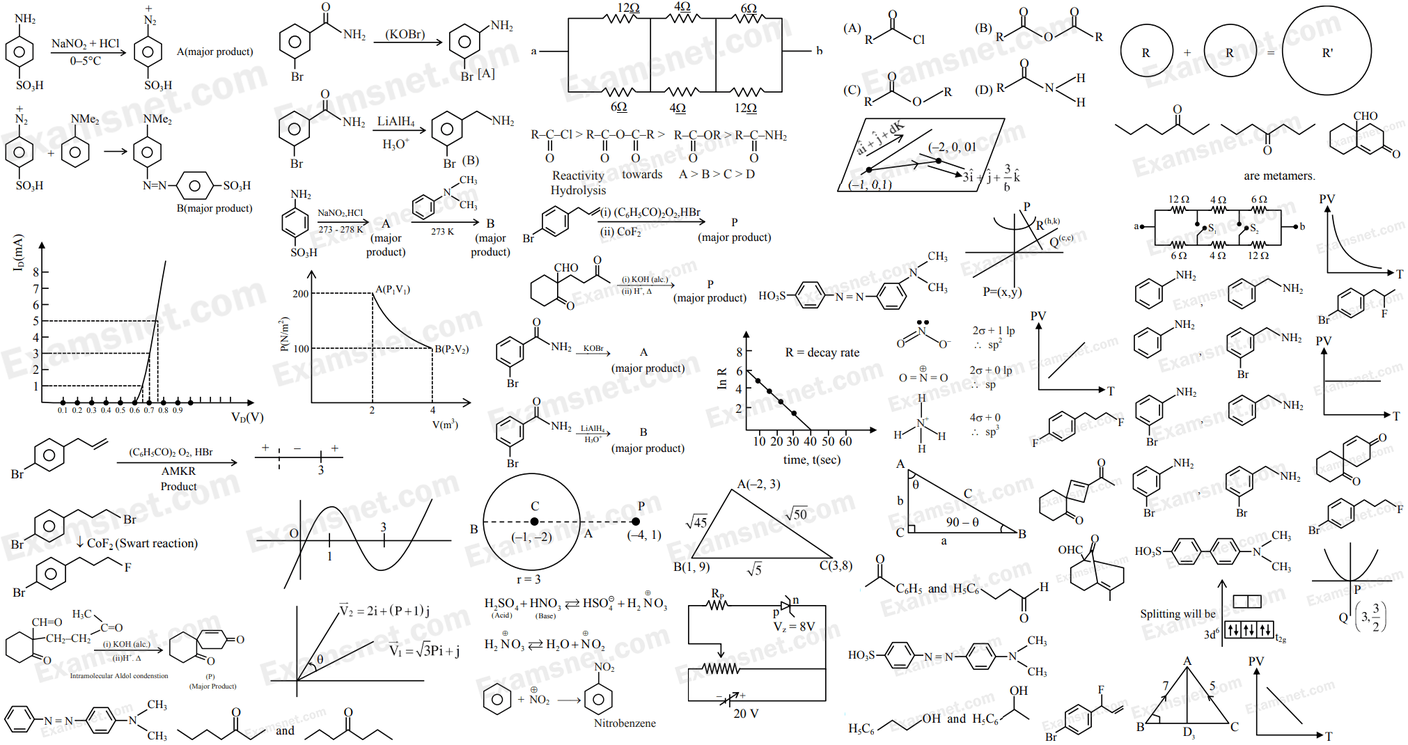
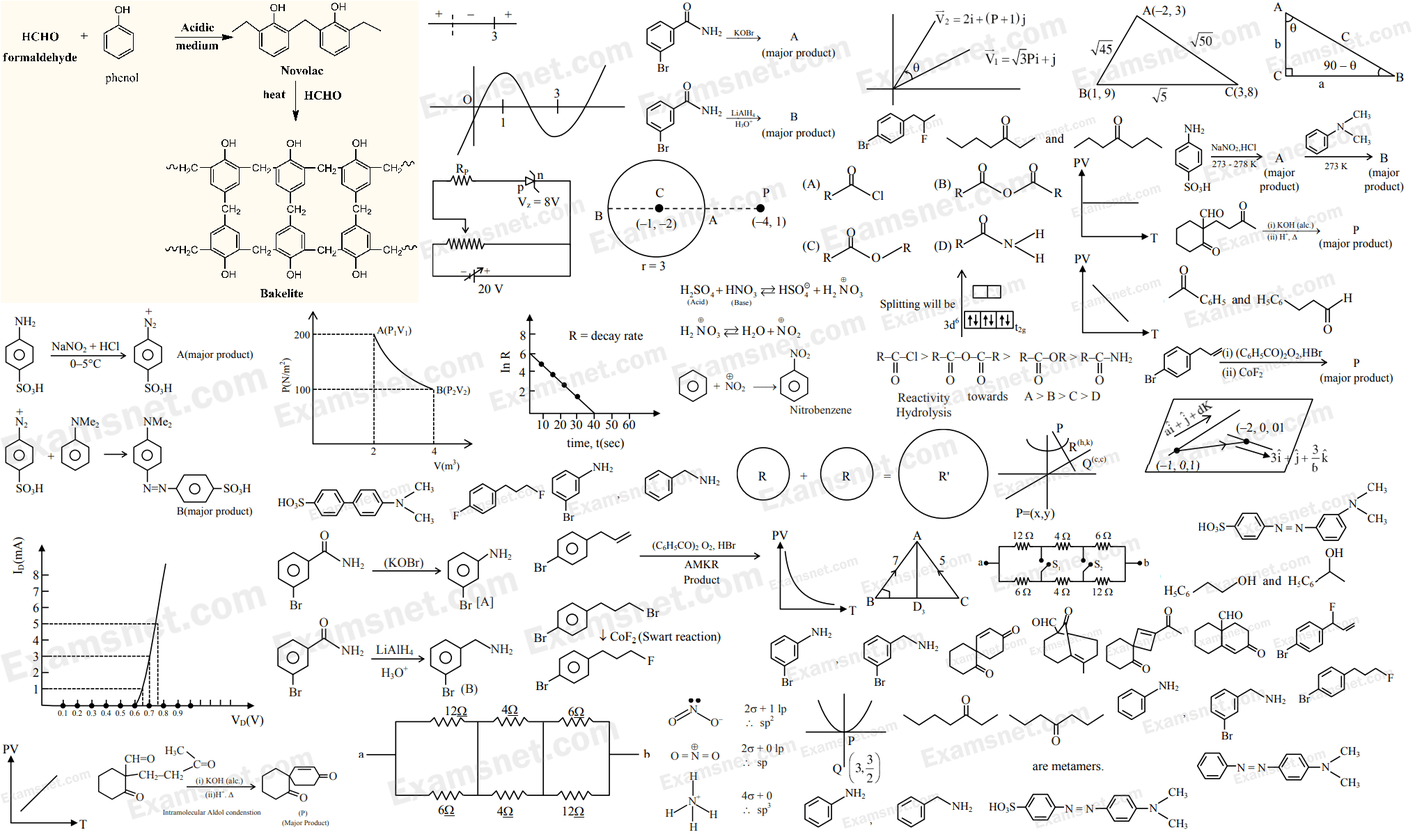
Fixed

diff --git a/img/jee/mains/prev/M2021July20_s2.css b/img/jee/mains/prev/M2021July20_s2.css
@@ -8,163 +8,166 @@ Responsive: <div class="yourspritesname"></div>
 
 
 .JEE_Main_20_July_2021_Eve_14_q {max-width:261px; max-height:226px; }
-.JEE_Main_20_July_2021_Eve_14_q::after {content: '\00a0';display: inline-block; width:261px; height:226px; background-position: 57.524134014764336% 53.791469194312796%;background-size: 774.7126436781609% 473.4513274336283%;background-image: url(M2021July20_s2-0.png);padding: 0; }
+.JEE_Main_20_July_2021_Eve_14_q::after {content: '\00a0';display: inline-block; width:261px; height:226px; background-position: 39.6386222473179% 44.057377049180324%;background-size: 778.5440613026819% 531.858407079646%;background-image: url(M2021July20_s2-0.png);padding: 0; }
 div.JEE_Main_20_July_2021_Eve_14_q::after {max-width:261px; width:100%;height:0;padding: 0 0 86.59003831417624% 0;}
 .JEE_Main_20_July_2021_Eve_19_s {max-width:379px; max-height:146px; }
-.JEE_Main_20_July_2021_Eve_19_s::after {content: '\00a0';display: inline-block; width:379px; height:146px; background-position: 97.20024345709069% 0.10822510822510822%;background-size: 533.509234828496% 732.8767123287671%;background-image: url(M2021July20_s2-0.png);padding: 0; }
+.JEE_Main_20_July_2021_Eve_19_s::after {content: '\00a0';display: inline-block; width:379px; height:146px; background-position: 63.2788868723533% 57.67045454545455%;background-size: 536.1477572559367% 823.2876712328767%;background-image: url(M2021July20_s2-0.png);padding: 0; }
 div.JEE_Main_20_July_2021_Eve_19_s::after {max-width:379px; width:100%;height:0;padding: 0 0 38.522427440633244% 0;}
 .JEE_Main_20_July_2021_Eve_21_q {max-width:243px; max-height:201px; }
-.JEE_Main_20_July_2021_Eve_21_q::after {content: '\00a0';display: inline-block; width:243px; height:201px; background-position: 54.468802698145026% 96.43268124280783%;background-size: 832.0987654320987% 532.3383084577115%;background-image: url(M2021July20_s2-0.png);padding: 0; }
+.JEE_Main_20_July_2021_Eve_21_q::after {content: '\00a0';display: inline-block; width:243px; height:201px; background-position: 33.65008384572387% 22.77722277722278%;background-size: 836.2139917695473% 598.0099502487562%;background-image: url(M2021July20_s2-0.png);padding: 0; }
 div.JEE_Main_20_July_2021_Eve_21_q::after {max-width:243px; width:100%;height:0;padding: 0 0 82.71604938271605% 0;}
 .JEE_Main_20_July_2021_Eve_23_q {max-width:265px; max-height:110px; }
-.JEE_Main_20_July_2021_Eve_23_q::after {content: '\00a0';display: inline-block; width:265px; height:110px; background-position: 92.43027888446215% 28.4375%;background-size: 763.0188679245283% 972.7272727272727%;background-image: url(M2021July20_s2-0.png);padding: 0; }
+.JEE_Main_20_July_2021_Eve_23_q::after {content: '\00a0';display: inline-block; width:265px; height:110px; background-position: 79.2303338992643% 69.23076923076923%;background-size: 766.7924528301887% 1092.7272727272727%;background-image: url(M2021July20_s2-0.png);padding: 0; }
 div.JEE_Main_20_July_2021_Eve_23_q::after {max-width:265px; width:100%;height:0;padding: 0 0 41.509433962264154% 0;}
 .JEE_Main_20_July_2021_Eve_23_s {max-width:440px; max-height:170px; }
-.JEE_Main_20_July_2021_Eve_23_s::after {content: '\00a0';display: inline-block; width:440px; height:170px; background-position: 47.661188369152974% 0.1111111111111111%;background-size: 459.54545454545456% 629.4117647058823%;background-image: url(M2021July20_s2-0.png);padding: 0; }
+.JEE_Main_20_July_2021_Eve_23_s::after {content: '\00a0';display: inline-block; width:440px; height:170px; background-position: 31.78391959798995% 97.96511627906976%;background-size: 461.8181818181818% 707.0588235294117%;background-image: url(M2021July20_s2-0.png);padding: 0; }
 div.JEE_Main_20_July_2021_Eve_23_s::after {max-width:440px; width:100%;height:0;padding: 0 0 38.63636363636363% 0;}
 .JEE_Main_20_July_2021_Eve_25_q {max-width:389px; max-height:298px; }
-.JEE_Main_20_July_2021_Eve_25_q::after {content: '\00a0';display: inline-block; width:389px; height:298px; background-position: 0.0612369871402327% 42.09844559585492%;background-size: 519.7943444730078% 359.06040268456377%;background-image: url(M2021July20_s2-0.png);padding: 0; }
+.JEE_Main_20_July_2021_Eve_25_q::after {content: '\00a0';display: inline-block; width:389px; height:298px; background-position: 0.06086427267194157% 84.070796460177%;background-size: 522.3650385604113% 403.3557046979866%;background-image: url(M2021July20_s2-0.png);padding: 0; }
 div.JEE_Main_20_July_2021_Eve_25_q::after {max-width:389px; width:100%;height:0;padding: 0 0 76.60668380462725% 0;}
 .JEE_Main_20_July_2021_Eve_27_q {max-width:308px; max-height:246px; }
-.JEE_Main_20_July_2021_Eve_27_q::after {content: '\00a0';display: inline-block; width:308px; height:246px; background-position: 22.81213535589265% 45.75242718446602%;background-size: 656.4935064935065% 434.9593495934959%;background-image: url(M2021July20_s2-0.png);padding: 0; }
+.JEE_Main_20_July_2021_Eve_27_q::after {content: '\00a0';display: inline-block; width:308px; height:246px; background-position: 22.79582366589327% 45.60669456066945%;background-size: 659.7402597402597% 488.6178861788618%;background-image: url(M2021July20_s2-0.png);padding: 0; }
 div.JEE_Main_20_July_2021_Eve_27_q::after {max-width:308px; width:100%;height:0;padding: 0 0 79.87012987012987% 0;}
 .JEE_Main_20_July_2021_Eve_31_o_2 {max-width:280px; max-height:111px; }
-.JEE_Main_20_July_2021_Eve_31_o_2::after {content: '\00a0';display: inline-block; width:280px; height:111px; background-position: 70.8955223880597% 82.48175182481752%;background-size: 722.1428571428571% 963.9639639639639%;background-image: url(M2021July20_s2-0.png);padding: 0; }
+.JEE_Main_20_July_2021_Eve_31_o_2::after {content: '\00a0';display: inline-block; width:280px; height:111px; background-position: 95.37671232876713% 34.46379468377635%;background-size: 725.7142857142857% 1082.882882882883%;background-image: url(M2021July20_s2-0.png);padding: 0; }
 div.JEE_Main_20_July_2021_Eve_31_o_2::after {max-width:280px; width:100%;height:0;padding: 0 0 39.642857142857146% 0;}
 .JEE_Main_20_July_2021_Eve_31_o_3 {max-width:282px; max-height:78px; }
-.JEE_Main_20_July_2021_Eve_31_o_3::after {content: '\00a0';display: inline-block; width:282px; height:78px; background-position: 69.71264367816092% 99.19354838709677%;background-size: 717.0212765957447% 1371.7948717948718%;background-image: url(M2021July20_s2-0.png);padding: 0; }
+.JEE_Main_20_July_2021_Eve_31_o_3::after {content: '\00a0';display: inline-block; width:282px; height:78px; background-position: 95.2% 69.9288256227758%;background-size: 720.5673758865248% 1541.025641025641%;background-image: url(M2021July20_s2-0.png);padding: 0; }
 div.JEE_Main_20_July_2021_Eve_31_o_3::after {max-width:282px; width:100%;height:0;padding: 0 0 27.659574468085108% 0;}
 .JEE_Main_20_July_2021_Eve_31_o_4 {max-width:317px; max-height:60px; }
-.JEE_Main_20_July_2021_Eve_31_o_4::after {content: '\00a0';display: inline-block; width:317px; height:60px; background-position: 14.838709677419354% 99.9009900990099%;background-size: 637.8548895899054% 1783.3333333333333%;background-image: url(M2021July20_s2-0.png);padding: 0; }
+.JEE_Main_20_July_2021_Eve_31_o_4::after {content: '\00a0';display: inline-block; width:317px; height:60px; background-position: 79.18367346938776% 13.92294220665499%;background-size: 641.0094637223975% 2003.3333333333333%;background-image: url(M2021July20_s2-0.png);padding: 0; }
 div.JEE_Main_20_July_2021_Eve_31_o_4::after {max-width:317px; width:100%;height:0;padding: 0 0 18.92744479495268% 0;}
 .JEE_Main_20_July_2021_Eve_31_s {max-width:307px; max-height:124px; }
-.JEE_Main_20_July_2021_Eve_31_s::after {content: '\00a0';display: inline-block; width:307px; height:124px; background-position: 93.11953352769679% 15.644820295983086%;background-size: 658.6319218241042% 862.9032258064516%;background-image: url(M2021July20_s2-0.png);padding: 0; }
+.JEE_Main_20_July_2021_Eve_31_s::after {content: '\00a0';display: inline-block; width:307px; height:124px; background-position: 74.95652173913044% 92.39332096474953%;background-size: 661.8892508143323% 969.3548387096774%;background-image: url(M2021July20_s2-0.png);padding: 0; }
 div.JEE_Main_20_July_2021_Eve_31_s::after {max-width:307px; width:100%;height:0;padding: 0 0 40.39087947882736% 0;}
 .JEE_Main_20_July_2021_Eve_32_o_1 {max-width:261px; max-height:91px; }
-.JEE_Main_20_July_2021_Eve_32_o_1::after {content: '\00a0';display: inline-block; width:261px; height:91px; background-position: 92.22032935831913% 46.6802860061287%;background-size: 774.7126436781609% 1175.8241758241759%;background-image: url(M2021July20_s2-0.png);padding: 0; }
+.JEE_Main_20_July_2021_Eve_32_o_1::after {content: '\00a0';display: inline-block; width:261px; height:91px; background-position: 90.40090344438171% 87.84878487848785%;background-size: 778.5440613026819% 1320.8791208791208%;background-image: url(M2021July20_s2-0.png);padding: 0; }
 div.JEE_Main_20_July_2021_Eve_32_o_1::after {max-width:261px; width:100%;height:0;padding: 0 0 34.86590038314176% 0;}
 .JEE_Main_20_July_2021_Eve_32_o_2 {max-width:259px; max-height:100px; }
-.JEE_Main_20_July_2021_Eve_32_o_2::after {content: '\00a0';display: inline-block; width:259px; height:100px; background-position: 92.11571185479296% 56.597938144329895%;background-size: 780.6949806949807% 1070%;background-image: url(M2021July20_s2-0.png);padding: 0; }
+.JEE_Main_20_July_2021_Eve_32_o_2::after {content: '\00a0';display: inline-block; width:259px; height:100px; background-position: 44.33164128595601% 59.618874773139744%;background-size: 784.5559845559845% 1202%;background-image: url(M2021July20_s2-0.png);padding: 0; }
 div.JEE_Main_20_July_2021_Eve_32_o_2::after {max-width:259px; width:100%;height:0;padding: 0 0 38.61003861003861% 0;}
 .JEE_Main_20_July_2021_Eve_32_o_3 {max-width:265px; max-height:72px; }
-.JEE_Main_20_July_2021_Eve_32_o_3::after {content: '\00a0';display: inline-block; width:265px; height:72px; background-position: 92.43027888446215% 38.476953907815634%;background-size: 763.0188679245283% 1486.111111111111%;background-image: url(M2021July20_s2-0.png);padding: 0; }
+.JEE_Main_20_July_2021_Eve_32_o_3::after {content: '\00a0';display: inline-block; width:265px; height:72px; background-position: 65.02546689303905% 99.82300884955752%;background-size: 766.7924528301887% 1669.4444444444443%;background-image: url(M2021July20_s2-0.png);padding: 0; }
 div.JEE_Main_20_July_2021_Eve_32_o_3::after {max-width:265px; width:100%;height:0;padding: 0 0 27.169811320754718% 0;}
 .JEE_Main_20_July_2021_Eve_32_o_4 {max-width:252px; max-height:102px; }
-.JEE_Main_20_July_2021_Eve_32_o_4::after {content: '\00a0';display: inline-block; width:252px; height:102px; background-position: 91.75141242937853% 67.14876033057851%;background-size: 802.3809523809524% 1049.0196078431372%;background-image: url(M2021July20_s2-0.png);padding: 0; }
+.JEE_Main_20_July_2021_Eve_32_o_4::after {content: '\00a0';display: inline-block; width:252px; height:102px; background-position: 62.02247191011236% 81.18181818181819%;background-size: 806.3492063492064% 1178.4313725490197%;background-image: url(M2021July20_s2-0.png);padding: 0; }
 div.JEE_Main_20_July_2021_Eve_32_o_4::after {max-width:252px; width:100%;height:0;padding: 0 0 40.476190476190474% 0;}
 .JEE_Main_20_July_2021_Eve_32_q {max-width:312px; max-height:223px; }
-.JEE_Main_20_July_2021_Eve_32_q::after {content: '\00a0';display: inline-block; width:312px; height:223px; background-position: 40.93567251461988% 53.60094451003542%;background-size: 648.0769230769231% 479.8206278026906%;background-image: url(M2021July20_s2-0.png);padding: 0; }
+.JEE_Main_20_July_2021_Eve_32_q::after {content: '\00a0';display: inline-block; width:312px; height:223px; background-position: 53.25581395348837% 0.10214504596527069%;background-size: 651.2820512820513% 539.0134529147982%;background-image: url(M2021July20_s2-0.png);padding: 0; }
 div.JEE_Main_20_July_2021_Eve_32_q::after {max-width:312px; width:100%;height:0;padding: 0 0 71.47435897435898% 0;}
 .JEE_Main_20_July_2021_Eve_32_s {max-width:360px; max-height:250px; }
-.JEE_Main_20_July_2021_Eve_32_s::after {content: '\00a0';display: inline-block; width:360px; height:250px; background-position: 23.646209386281587% 0.12195121951219512%;background-size: 561.6666666666666% 428%;background-image: url(M2021July20_s2-0.png);padding: 0; }
+.JEE_Main_20_July_2021_Eve_32_s::after {content: '\00a0';display: inline-block; width:360px; height:250px; background-position: 23.385167464114833% 79.83193277310924%;background-size: 564.4444444444445% 480.8%;background-image: url(M2021July20_s2-0.png);padding: 0; }
 div.JEE_Main_20_July_2021_Eve_32_s::after {max-width:360px; width:100%;height:0;padding: 0 0 69.44444444444444% 0;}
 .JEE_Main_20_July_2021_Eve_33_o_1 {max-width:107px; max-height:110px; }
-.JEE_Main_20_July_2021_Eve_33_o_1::after {content: '\00a0';display: inline-block; width:107px; height:110px; background-position: 79.1644908616188% 79.47916666666667%;background-size: 1889.7196261682243% 972.7272727272727%;background-image: url(M2021July20_s2-0.png);padding: 0; }
+.JEE_Main_20_July_2021_Eve_33_o_1::after {content: '\00a0';display: inline-block; width:107px; height:110px; background-position: 76.77922077922078% 79.3956043956044%;background-size: 1899.0654205607477% 1092.7272727272727%;background-image: url(M2021July20_s2-0.png);padding: 0; }
 div.JEE_Main_20_July_2021_Eve_33_o_1::after {max-width:107px; width:100%;height:0;padding: 0 0 102.80373831775701% 0;}
 .JEE_Main_20_July_2021_Eve_33_o_2 {max-width:120px; max-height:94px; }
-.JEE_Main_20_July_2021_Eve_33_o_2::after {content: '\00a0';display: inline-block; width:120px; height:94px; background-position: 99.05362776025237% 62.90983606557377%;background-size: 1685% 1138.2978723404256%;background-image: url(M2021July20_s2-0.png);padding: 0; }
+.JEE_Main_20_July_2021_Eve_33_o_2::after {content: '\00a0';display: inline-block; width:120px; height:94px; background-position: 70.97280334728033% 80.32490974729242%;background-size: 1693.3333333333333% 1278.723404255319%;background-image: url(M2021July20_s2-0.png);padding: 0; }
 div.JEE_Main_20_July_2021_Eve_33_o_2::after {max-width:120px; width:100%;height:0;padding: 0 0 78.33333333333333% 0;}
 .JEE_Main_20_July_2021_Eve_33_o_3 {max-width:116px; max-height:89px; }
-.JEE_Main_20_July_2021_Eve_33_o_3::after {content: '\00a0';display: inline-block; width:116px; height:89px; background-position: 99.94753410283316% 15.08664627930683%;background-size: 1743.103448275862% 1202.247191011236%;background-image: url(M2021July20_s2-0.png);padding: 0; }
+.JEE_Main_20_July_2021_Eve_33_o_3::after {content: '\00a0';display: inline-block; width:116px; height:89px; background-position: 89.30062630480167% 77.71787960467206%;background-size: 1751.7241379310344% 1350.561797752809%;background-image: url(M2021July20_s2-0.png);padding: 0; }
 div.JEE_Main_20_July_2021_Eve_33_o_3::after {max-width:116px; width:100%;height:0;padding: 0 0 76.72413793103448% 0;}
 .JEE_Main_20_July_2021_Eve_33_o_4 {max-width:124px; max-height:108px; }
-.JEE_Main_20_July_2021_Eve_33_o_4::after {content: '\00a0';display: inline-block; width:124px; height:108px; background-position: 78.50368809272919% 67.98336798336798%;background-size: 1630.6451612903227% 990.7407407407408%;background-image: url(M2021July20_s2-0.png);padding: 0; }
+.JEE_Main_20_July_2021_Eve_33_o_4::after {content: '\00a0';display: inline-block; width:124px; height:108px; background-position: 83.12368972746332% 79.25045703839122%;background-size: 1638.7096774193549% 1112.962962962963%;background-image: url(M2021July20_s2-0.png);padding: 0; }
 div.JEE_Main_20_July_2021_Eve_33_o_4::after {max-width:124px; width:100%;height:0;padding: 0 0 87.09677419354838% 0;}
 .JEE_Main_20_July_2021_Eve_33_q {max-width:338px; max-height:92px; }
-.JEE_Main_20_July_2021_Eve_33_q::after {content: '\00a0';display: inline-block; width:338px; height:92px; background-position: 44.180522565320665% 36.9120654396728%;background-size: 598.2248520710059% 1163.0434782608695%;background-image: url(M2021July20_s2-0.png);padding: 0; }
+.JEE_Main_20_July_2021_Eve_33_q::after {content: '\00a0';display: inline-block; width:338px; height:92px; background-position: 98.64226682408501% 25.495495495495497%;background-size: 601.1834319526628% 1306.5217391304348%;background-image: url(M2021July20_s2-0.png);padding: 0; }
 div.JEE_Main_20_July_2021_Eve_33_q::after {max-width:338px; width:100%;height:0;padding: 0 0 27.218934911242602% 0;}
 .JEE_Main_20_July_2021_Eve_33_s {max-width:371px; max-height:137px; }
-.JEE_Main_20_July_2021_Eve_33_s::after {content: '\00a0';display: inline-block; width:371px; height:137px; background-position: 0.06056935190793458% 92.49732047159699%;background-size: 545.0134770889488% 781.021897810219%;background-image: url(M2021July20_s2-0.png);padding: 0; }
+.JEE_Main_20_July_2021_Eve_33_s::after {content: '\00a0';display: inline-block; width:371px; height:137px; background-position: 8.067429259482239% 99.43661971830986%;background-size: 547.7088948787062% 877.3722627737226%;background-image: url(M2021July20_s2-0.png);padding: 0; }
 div.JEE_Main_20_July_2021_Eve_33_s::after {max-width:371px; width:100%;height:0;padding: 0 0 36.92722371967655% 0;}
 .JEE_Main_20_July_2021_Eve_39_s {max-width:242px; max-height:106px; }
-.JEE_Main_20_July_2021_Eve_39_s::after {content: '\00a0';display: inline-block; width:242px; height:106px; background-position: 91.23595505617978% 85.99585062240664%;background-size: 835.5371900826447% 1009.433962264151%;background-image: url(M2021July20_s2-0.png);padding: 0; }
+.JEE_Main_20_July_2021_Eve_39_s::after {content: '\00a0';display: inline-block; width:242px; height:106px; background-position: 69.83240223463687% 35.03649635036496%;background-size: 839.6694214876034% 1133.9622641509434%;background-image: url(M2021July20_s2-0.png);padding: 0; }
 div.JEE_Main_20_July_2021_Eve_39_s::after {max-width:242px; width:100%;height:0;padding: 0 0 43.80165289256198% 0;}
 .JEE_Main_20_July_2021_Eve_42_s {max-width:201px; max-height:202px; }
-.JEE_Main_20_July_2021_Eve_42_s::after {content: '\00a0';display: inline-block; width:201px; height:202px; background-position: 70.0164744645799% 52.30414746543779%;background-size: 1005.9701492537314% 529.7029702970297%;background-image: url(M2021July20_s2-0.png);padding: 0; }
+.JEE_Main_20_July_2021_Eve_42_s::after {content: '\00a0';display: inline-block; width:201px; height:202px; background-position: 51.7203713817586% 99.7%;background-size: 1010.9452736318408% 595.049504950495%;background-image: url(M2021July20_s2-0.png);padding: 0; }
 div.JEE_Main_20_July_2021_Eve_42_s::after {max-width:201px; width:100%;height:0;padding: 0 0 100.49751243781094% 0;}
+.JEE_Main_20_July_2021_Eve_43_s {max-width:600px; max-height:434px; }
+.JEE_Main_20_July_2021_Eve_43_s::after {content: '\00a0';display: inline-block; width:600px; height:434px; background-position: 0.06983240223463687% 0.13020833333333334%;background-size: 338.6666666666667% 276.9585253456221%;background-image: url(M2021July20_s2-0.png);padding: 0; }
+div.JEE_Main_20_July_2021_Eve_43_s::after {max-width:600px; width:100%;height:0;padding: 0 0 72.33333333333333% 0;}
 .JEE_Main_20_July_2021_Eve_44_s {max-width:285px; max-height:210px; }
-.JEE_Main_20_July_2021_Eve_44_s::after {content: '\00a0';display: inline-block; width:285px; height:210px; background-position: 39.32066781807715% 98.6046511627907%;background-size: 709.4736842105264% 509.5238095238095%;background-image: url(M2021July20_s2-0.png);padding: 0; }
+.JEE_Main_20_July_2021_Eve_44_s::after {content: '\00a0';display: inline-block; width:285px; height:210px; background-position: 55.180309101316546% 40.12096774193548%;background-size: 712.9824561403509% 572.3809523809524%;background-image: url(M2021July20_s2-0.png);padding: 0; }
 div.JEE_Main_20_July_2021_Eve_44_s::after {max-width:285px; width:100%;height:0;padding: 0 0 73.6842105263158% 0;}
 .JEE_Main_20_July_2021_Eve_45_o_1 {max-width:295px; max-height:92px; }
-.JEE_Main_20_July_2021_Eve_45_o_1::after {content: '\00a0';display: inline-block; width:295px; height:92px; background-position: 62.70990156340475% 36.9120654396728%;background-size: 685.4237288135594% 1163.0434782608695%;background-image: url(M2021July20_s2-0.png);padding: 0; }
+.JEE_Main_20_July_2021_Eve_45_o_1::after {content: '\00a0';display: inline-block; width:295px; height:92px; background-position: 98.67587795048935% 62.432432432432435%;background-size: 688.8135593220339% 1306.5217391304348%;background-image: url(M2021July20_s2-0.png);padding: 0; }
 div.JEE_Main_20_July_2021_Eve_45_o_1::after {max-width:295px; width:100%;height:0;padding: 0 0 31.1864406779661% 0;}
 .JEE_Main_20_July_2021_Eve_45_o_2 {max-width:251px; max-height:68px; }
-.JEE_Main_20_July_2021_Eve_45_o_2::after {content: '\00a0';display: inline-block; width:251px; height:68px; background-position: 0.05646527385657821% 99.9001996007984%;background-size: 805.5776892430279% 1573.5294117647059%;background-image: url(M2021July20_s2-0.png);padding: 0; }
+.JEE_Main_20_July_2021_Eve_45_o_2::after {content: '\00a0';display: inline-block; width:251px; height:68px; background-position: 96.23806850084222% 94.17989417989418%;background-size: 809.5617529880478% 1767.6470588235295%;background-image: url(M2021July20_s2-0.png);padding: 0; }
 div.JEE_Main_20_July_2021_Eve_45_o_2::after {max-width:251px; width:100%;height:0;padding: 0 0 27.09163346613546% 0;}
 .JEE_Main_20_July_2021_Eve_45_o_3 {max-width:298px; max-height:80px; }
-.JEE_Main_20_July_2021_Eve_45_o_3::after {content: '\00a0';display: inline-block; width:298px; height:80px; background-position: 70.35962877030163% 91.21212121212122%;background-size: 678.5234899328859% 1337.5%;background-image: url(M2021July20_s2-0.png);padding: 0; }
+.JEE_Main_20_July_2021_Eve_45_o_3::after {content: '\00a0';display: inline-block; width:298px; height:80px; background-position: 81.60322952710496% 99.9108734402852%;background-size: 681.8791946308725% 1502.5%;background-image: url(M2021July20_s2-0.png);padding: 0; }
 div.JEE_Main_20_July_2021_Eve_45_o_3::after {max-width:298px; width:100%;height:0;padding: 0 0 26.845637583892618% 0;}
 .JEE_Main_20_July_2021_Eve_45_o_4 {max-width:251px; max-height:75px; }
-.JEE_Main_20_July_2021_Eve_45_o_4::after {content: '\00a0';display: inline-block; width:251px; height:75px; background-position: 91.699604743083% 75.678391959799%;background-size: 805.5776892430279% 1426.6666666666667%;background-image: url(M2021July20_s2-0.png);padding: 0; }
+.JEE_Main_20_July_2021_Eve_45_o_4::after {content: '\00a0';display: inline-block; width:251px; height:75px; background-position: 22.06625491297024% 60.60337178349601%;background-size: 809.5617529880478% 1602.6666666666667%;background-image: url(M2021July20_s2-0.png);padding: 0; }
 div.JEE_Main_20_July_2021_Eve_45_o_4::after {max-width:251px; width:100%;height:0;padding: 0 0 29.8804780876494% 0;}
 .JEE_Main_20_July_2021_Eve_45_q {max-width:350px; max-height:124px; }
-.JEE_Main_20_July_2021_Eve_45_q::after {content: '\00a0';display: inline-block; width:350px; height:124px; background-position: 23.504784688995215% 26.6384778012685%;background-size: 577.7142857142857% 862.9032258064516%;background-image: url(M2021July20_s2-0.png);padding: 0; }
+.JEE_Main_20_July_2021_Eve_45_q::after {content: '\00a0';display: inline-block; width:350px; height:124px; background-position: 99.64328180737218% 14.656771799628942%;background-size: 580.5714285714286% 969.3548387096774%;background-image: url(M2021July20_s2-0.png);padding: 0; }
 div.JEE_Main_20_July_2021_Eve_45_q::after {max-width:350px; width:100%;height:0;padding: 0 0 35.42857142857143% 0;}
 .JEE_Main_20_July_2021_Eve_45_s {max-width:391px; max-height:323px; }
-.JEE_Main_20_July_2021_Eve_45_s::after {content: '\00a0';display: inline-block; width:391px; height:323px; background-position: 0.061312078479460456% 0.13386880856760375%;background-size: 517.1355498721227% 331.26934984520125%;background-image: url(M2021July20_s2-0.png);padding: 0; }
+.JEE_Main_20_July_2021_Eve_45_s::after {content: '\00a0';display: inline-block; width:391px; height:323px; background-position: 0.06093845216331505% 49.60182025028441%;background-size: 519.693094629156% 372.1362229102167%;background-image: url(M2021July20_s2-0.png);padding: 0; }
 div.JEE_Main_20_July_2021_Eve_45_s::after {max-width:391px; width:100%;height:0;padding: 0 0 82.6086956521739% 0;}
 .JEE_Main_20_July_2021_Eve_46_o_1 {max-width:127px; max-height:85px; }
-.JEE_Main_20_July_2021_Eve_46_o_1::after {content: '\00a0';display: inline-block; width:127px; height:85px; background-position: 78.94459102902374% 99.8984771573604%;background-size: 1592.1259842519685% 1258.8235294117646%;background-image: url(M2021July20_s2-0.png);padding: 0; }
+.JEE_Main_20_July_2021_Eve_46_o_1::after {content: '\00a0';display: inline-block; width:127px; height:85px; background-position: 95.95800524934383% 77.4395702775291%;background-size: 1600% 1414.1176470588234%;background-image: url(M2021July20_s2-0.png);padding: 0; }
 div.JEE_Main_20_July_2021_Eve_46_o_1::after {max-width:127px; width:100%;height:0;padding: 0 0 66.92913385826772% 0;}
 .JEE_Main_20_July_2021_Eve_46_o_2 {max-width:140px; max-height:74px; }
-.JEE_Main_20_July_2021_Eve_46_o_2::after {content: '\00a0';display: inline-block; width:140px; height:74px; background-position: 78.48034006376196% 58.13253012048193%;background-size: 1444.2857142857142% 1445.945945945946%;background-image: url(M2021July20_s2-0.png);padding: 0; }
+.JEE_Main_20_July_2021_Eve_46_o_2::after {content: '\00a0';display: inline-block; width:140px; height:74px; background-position: 34.09090909090909% 60.54964539007092%;background-size: 1451.4285714285713% 1624.3243243243244%;background-image: url(M2021July20_s2-0.png);padding: 0; }
 div.JEE_Main_20_July_2021_Eve_46_o_2::after {max-width:140px; width:100%;height:0;padding: 0 0 52.857142857142854% 0;}
 .JEE_Main_20_July_2021_Eve_46_o_3 {max-width:128px; max-height:65px; }
-.JEE_Main_20_July_2021_Eve_46_o_3::after {content: '\00a0';display: inline-block; width:128px; height:65px; background-position: 99.78880675818374% 40.79601990049751%;background-size: 1579.6875% 1646.1538461538462%;background-image: url(M2021July20_s2-0.png);padding: 0; }
+.JEE_Main_20_July_2021_Eve_46_o_3::after {content: '\00a0';display: inline-block; width:128px; height:65px; background-position: 64.5483193277311% 13.984168865435356%;background-size: 1587.5% 1849.2307692307693%;background-image: url(M2021July20_s2-0.png);padding: 0; }
 div.JEE_Main_20_July_2021_Eve_46_o_3::after {max-width:128px; width:100%;height:0;padding: 0 0 50.78125% 0;}
 .JEE_Main_20_July_2021_Eve_46_o_4 {max-width:144px; max-height:69px; }
-.JEE_Main_20_July_2021_Eve_46_o_4::after {content: '\00a0';display: inline-block; width:144px; height:69px; background-position: 99.94675186368477% 70.82917082917083%;background-size: 1404.1666666666667% 1550.7246376811595%;background-image: url(M2021July20_s2-0.png);padding: 0; }
+.JEE_Main_20_July_2021_Eve_46_o_4::after {content: '\00a0';display: inline-block; width:144px; height:69px; background-position: 98.67584745762711% 83.93645189761695%;background-size: 1411.111111111111% 1742.0289855072465%;background-image: url(M2021July20_s2-0.png);padding: 0; }
 div.JEE_Main_20_July_2021_Eve_46_o_4::after {max-width:144px; width:100%;height:0;padding: 0 0 47.916666666666664% 0;}
 .JEE_Main_20_July_2021_Eve_46_q {max-width:374px; max-height:71px; }
-.JEE_Main_20_July_2021_Eve_46_q::after {content: '\00a0';display: inline-block; width:374px; height:71px; background-position: 45.14563106796116% 28.92892892892893%;background-size: 540.6417112299465% 1507.0422535211267%;background-image: url(M2021July20_s2-0.png);padding: 0; }
+.JEE_Main_20_July_2021_Eve_46_q::after {content: '\00a0';display: inline-block; width:374px; height:71px; background-position: 98.73341375150784% 43.41290893015031%;background-size: 543.3155080213904% 1692.9577464788733%;background-image: url(M2021July20_s2-0.png);padding: 0; }
 div.JEE_Main_20_July_2021_Eve_46_q::after {max-width:374px; width:100%;height:0;padding: 0 0 18.983957219251337% 0;}
 .JEE_Main_20_July_2021_Eve_46_s {max-width:351px; max-height:238px; }
-.JEE_Main_20_July_2021_Eve_46_s::after {content: '\00a0';display: inline-block; width:351px; height:238px; background-position: 0.059844404548174746% 75%;background-size: 576.0683760683761% 449.5798319327731%;background-image: url(M2021July20_s2-0.png);padding: 0; }
+.JEE_Main_20_July_2021_Eve_46_s::after {content: '\00a0';display: inline-block; width:351px; height:238px; background-position: 44.735276621058894% 78.63070539419087%;background-size: 578.9173789173789% 505.0420168067227%;background-image: url(M2021July20_s2-0.png);padding: 0; }
 div.JEE_Main_20_July_2021_Eve_46_s::after {max-width:351px; width:100%;height:0;padding: 0 0 67.80626780626781% 0;}
 .JEE_Main_20_July_2021_Eve_50_q {max-width:401px; max-height:158px; }
-.JEE_Main_20_July_2021_Eve_50_q::after {content: '\00a0';display: inline-block; width:401px; height:158px; background-position: 73.71992597162246% 0.10964912280701754%;background-size: 504.23940149625935% 677.2151898734177%;background-image: url(M2021July20_s2-0.png);padding: 0; }
+.JEE_Main_20_July_2021_Eve_50_q::after {content: '\00a0';display: inline-block; width:401px; height:158px; background-position: 69.65052115266708% 21.551724137931036%;background-size: 506.73316708229424% 760.7594936708861%;background-image: url(M2021July20_s2-0.png);padding: 0; }
 div.JEE_Main_20_July_2021_Eve_50_q::after {max-width:401px; width:100%;height:0;padding: 0 0 39.401496259351624% 0;}
 .JEE_Main_20_July_2021_Eve_50_s {max-width:386px; max-height:116px; }
-.JEE_Main_20_July_2021_Eve_50_s::after {content: '\00a0';display: inline-block; width:386px; height:116px; background-position: 46.0880195599022% 18.029350104821802%;background-size: 523.8341968911917% 922.4137931034483%;background-image: url(M2021July20_s2-0.png);padding: 0; }
+.JEE_Main_20_July_2021_Eve_50_s::after {content: '\00a0';display: inline-block; width:386px; height:116px; background-position: 75.94167679222357% 45.21178637200737%;background-size: 526.4248704663213% 1036.2068965517242%;background-image: url(M2021July20_s2-0.png);padding: 0; }
 div.JEE_Main_20_July_2021_Eve_50_s::after {max-width:386px; width:100%;height:0;padding: 0 0 30.05181347150259% 0;}
 .JEE_Main_20_July_2021_Eve_63_s {max-width:289px; max-height:169px; }
-.JEE_Main_20_July_2021_Eve_63_s::after {content: '\00a0';display: inline-block; width:289px; height:169px; background-position: 38.48817080207732% 75.24972253052164%;background-size: 699.6539792387543% 633.1360946745563%;background-image: url(M2021July20_s2-0.png);padding: 0; }
+.JEE_Main_20_July_2021_Eve_63_s::after {content: '\00a0';display: inline-block; width:289px; height:169px; background-position: 48.53700516351119% 22.07163601161665%;background-size: 703.1141868512111% 711.2426035502958%;background-image: url(M2021July20_s2-0.png);padding: 0; }
 div.JEE_Main_20_July_2021_Eve_63_s::after {max-width:289px; width:100%;height:0;padding: 0 0 58.477508650519034% 0;}
 .JEE_Main_20_July_2021_Eve_65_s {max-width:308px; max-height:129px; }
-.JEE_Main_20_July_2021_Eve_65_s::after {content: '\00a0';display: inline-block; width:308px; height:129px; background-position: 69.71995332555426% 17.00318809776833%;background-size: 656.4935064935065% 829.4573643410853%;background-image: url(M2021July20_s2-0.png);padding: 0; }
+.JEE_Main_20_July_2021_Eve_65_s::after {content: '\00a0';display: inline-block; width:308px; height:129px; background-position: 94.95359628770302% 52.46971109040074%;background-size: 659.7402597402597% 931.7829457364342%;background-image: url(M2021July20_s2-0.png);padding: 0; }
 div.JEE_Main_20_July_2021_Eve_65_s::after {max-width:308px; width:100%;height:0;padding: 0 0 41.883116883116884% 0;}
 .JEE_Main_20_July_2021_Eve_72_s {max-width:214px; max-height:133px; }
-.JEE_Main_20_July_2021_Eve_72_s::after {content: '\00a0';display: inline-block; width:214px; height:133px; background-position: 70.51991150442478% 70.11739594450374%;background-size: 944.8598130841121% 804.5112781954887%;background-image: url(M2021July20_s2-0.png);padding: 0; }
+.JEE_Main_20_July_2021_Eve_72_s::after {content: '\00a0';display: inline-block; width:214px; height:133px; background-position: 99.94499449944995% 0.09354536950420954%;background-size: 949.5327102803739% 903.7593984962406%;background-image: url(M2021July20_s2-0.png);padding: 0; }
 div.JEE_Main_20_July_2021_Eve_72_s::after {max-width:214px; width:100%;height:0;padding: 0 0 62.149532710280376% 0;}
 .JEE_Main_20_July_2021_Eve_77_s {max-width:186px; max-height:146px; }
-.JEE_Main_20_July_2021_Eve_77_s::after {content: '\00a0';display: inline-block; width:186px; height:146px; background-position: 75.10893246187364% 31.385281385281385%;background-size: 1087.0967741935483% 732.8767123287671%;background-image: url(M2021July20_s2-0.png);padding: 0; }
+.JEE_Main_20_July_2021_Eve_77_s::after {content: '\00a0';display: inline-block; width:186px; height:146px; background-position: 77.24810400866738% 57.57575757575758%;background-size: 1092.47311827957% 823.2876712328767%;background-image: url(M2021July20_s2-0.png);padding: 0; }
 div.JEE_Main_20_July_2021_Eve_77_s::after {max-width:186px; width:100%;height:0;padding: 0 0 78.49462365591398% 0;}
 .JEE_Main_20_July_2021_Eve_80_s {max-width:163px; max-height:133px; }
-.JEE_Main_20_July_2021_Eve_80_s::after {content: '\00a0';display: inline-block; width:163px; height:133px; background-position: 87.35879505110275% 99.89327641408751%;background-size: 1240.4907975460123% 804.5112781954887%;background-image: url(M2021July20_s2-0.png);padding: 0; }
+.JEE_Main_20_July_2021_Eve_80_s::after {content: '\00a0';display: inline-block; width:163px; height:133px; background-position: 66.13162118780096% 70.72029934518241%;background-size: 1246.6257668711658% 903.7593984962406%;background-image: url(M2021July20_s2-0.png);padding: 0; }
 div.JEE_Main_20_July_2021_Eve_80_s::after {max-width:163px; width:100%;height:0;padding: 0 0 81.59509202453988% 0;}
 .JEE_Main_20_July_2021_Eve_84_s {max-width:309px; max-height:157px; }
-.JEE_Main_20_July_2021_Eve_84_s::after {content: '\00a0';display: inline-block; width:309px; height:157px; background-position: 21.77466433158202% 93.2092004381161%;background-size: 654.3689320388349% 681.5286624203821%;background-image: url(M2021July20_s2-0.png);padding: 0; }
+.JEE_Main_20_July_2021_Eve_84_s::after {content: '\00a0';display: inline-block; width:309px; height:157px; background-position: 71.32907719094602% 0.09569377990430622%;background-size: 657.6051779935275% 765.6050955414013%;background-image: url(M2021July20_s2-0.png);padding: 0; }
 div.JEE_Main_20_July_2021_Eve_84_s::after {max-width:309px; width:100%;height:0;padding: 0 0 50.80906148867314% 0;}
 .JEE_Main_20_July_2021_Eve_85_s {max-width:277px; max-height:156px; }
-.JEE_Main_20_July_2021_Eve_85_s::after {content: '\00a0';display: inline-block; width:277px; height:156px; background-position: 54.84240687679083% 74.50765864332604%;background-size: 729.9638989169675% 685.8974358974359%;background-image: url(M2021July20_s2-0.png);padding: 0; }
+.JEE_Main_20_July_2021_Eve_85_s::after {content: '\00a0';display: inline-block; width:277px; height:156px; background-position: 87.6923076923077% 0.09560229445506692%;background-size: 733.5740072202166% 770.5128205128206%;background-image: url(M2021July20_s2-0.png);padding: 0; }
 div.JEE_Main_20_July_2021_Eve_85_s::after {max-width:277px; width:100%;height:0;padding: 0 0 56.31768953068592% 0;}
 .JEE_Main_20_July_2021_Eve_86_s {max-width:143px; max-height:131px; }
-.JEE_Main_20_July_2021_Eve_86_s::after {content: '\00a0';display: inline-block; width:143px; height:131px; background-position: 99.8403406067057% 82.96059637912673%;background-size: 1413.986013986014% 816.7938931297709%;background-image: url(M2021July20_s2-0.png);padding: 0; }
+.JEE_Main_20_July_2021_Eve_86_s::after {content: '\00a0';display: inline-block; width:143px; height:131px; background-position: 60.825833774483854% 92.99719887955182%;background-size: 1420.979020979021% 917.5572519083969%;background-image: url(M2021July20_s2-0.png);padding: 0; }
 div.JEE_Main_20_July_2021_Eve_86_s::after {max-width:143px; width:100%;height:0;padding: 0 0 91.60839160839161% 0;}
 .JEE_Main_20_July_2021_Eve_87_s {max-width:313px; max-height:226px; }
-.JEE_Main_20_July_2021_Eve_87_s::after {content: '\00a0';display: inline-block; width:313px; height:226px; background-position: 20.655354008191924% 73.93364928909952%;background-size: 646.0063897763579% 473.4513274336283%;background-image: url(M2021July20_s2-0.png);padding: 0; }
+.JEE_Main_20_July_2021_Eve_87_s::after {content: '\00a0';display: inline-block; width:313px; height:226px; background-position: 35.02036067481094% 0.10245901639344263%;background-size: 649.2012779552716% 531.858407079646%;background-image: url(M2021July20_s2-0.png);padding: 0; }
 div.JEE_Main_20_July_2021_Eve_87_s::after {max-width:313px; width:100%;height:0;padding: 0 0 72.20447284345047% 0;}
 .JEE_Main_20_July_2021_Eve_8_o_1 {max-width:132px; max-height:132px; }
-.JEE_Main_20_July_2021_Eve_8_o_1::after {content: '\00a0';display: inline-block; width:132px; height:132px; background-position: 94.60317460317461% 99.7867803837953%;background-size: 1531.8181818181818% 810.6060606060606%;background-image: url(M2021July20_s2-0.png);padding: 0; }
+.JEE_Main_20_July_2021_Eve_8_o_1::after {content: '\00a0';display: inline-block; width:132px; height:132px; background-position: 80.94736842105263% 33.45794392523364%;background-size: 1539.3939393939395% 910.6060606060606%;background-image: url(M2021July20_s2-0.png);padding: 0; }
 div.JEE_Main_20_July_2021_Eve_8_o_1::after {max-width:132px; width:100%;height:0;padding: 0 0 100% 0;}
 .JEE_Main_20_July_2021_Eve_8_o_2 {max-width:132px; max-height:137px; }
-.JEE_Main_20_July_2021_Eve_8_o_2::after {content: '\00a0';display: inline-block; width:132px; height:137px; background-position: 99.78835978835978% 51.01822079314041%;background-size: 1531.8181818181818% 781.021897810219%;background-image: url(M2021July20_s2-0.png);padding: 0; }
+.JEE_Main_20_July_2021_Eve_8_o_2::after {content: '\00a0';display: inline-block; width:132px; height:137px; background-position: 80.94736842105263% 20.657276995305164%;background-size: 1539.3939393939395% 877.3722627737226%;background-image: url(M2021July20_s2-0.png);padding: 0; }
 div.JEE_Main_20_July_2021_Eve_8_o_2::after {max-width:132px; width:100%;height:0;padding: 0 0 103.78787878787878% 0;}
 .JEE_Main_20_July_2021_Eve_8_o_3 {max-width:132px; max-height:141px; }
-.JEE_Main_20_July_2021_Eve_8_o_3::after {content: '\00a0';display: inline-block; width:132px; height:141px; background-position: 78.14814814814815% 47.03982777179763%;background-size: 1531.8181818181818% 758.8652482269504%;background-image: url(M2021July20_s2-0.png);padding: 0; }
+.JEE_Main_20_July_2021_Eve_8_o_3::after {content: '\00a0';display: inline-block; width:132px; height:141px; background-position: 0.05263157894736842% 99.8114985862394%;background-size: 1539.3939393939395% 852.4822695035461%;background-image: url(M2021July20_s2-0.png);padding: 0; }
 div.JEE_Main_20_July_2021_Eve_8_o_3::after {max-width:132px; width:100%;height:0;padding: 0 0 106.81818181818181% 0;}
 .JEE_Main_20_July_2021_Eve_8_o_4 {max-width:131px; max-height:136px; }
-.JEE_Main_20_July_2021_Eve_8_o_4::after {content: '\00a0';display: inline-block; width:131px; height:136px; background-position: 99.94711792702275% 29.22912205567452%;background-size: 1543.5114503816794% 786.7647058823529%;background-image: url(M2021July20_s2-0.png);padding: 0; }
+.JEE_Main_20_July_2021_Eve_8_o_4::after {content: '\00a0';display: inline-block; width:131px; height:136px; background-position: 58.07469752761704% 70.91932457786116%;background-size: 1551.145038167939% 883.8235294117648%;background-image: url(M2021July20_s2-0.png);padding: 0; }
 div.JEE_Main_20_July_2021_Eve_8_o_4::after {max-width:131px; width:100%;height:0;padding: 0 0 103.81679389312977% 0;}
 
-/* $TexturePacker:SmartUpdate:63c6250b337655994d525032c2e3bd77:bb6cb320b0c41ab974ffa2cbb7519552:4cf843d027ba6b326c79912ee9cad892$ */
+/* $TexturePacker:SmartUpdate:ecf66d8ae26bffd1557eb4c9891ea9ea:33775b77e119f8f2ab92b7f3d836a2e7:4cf843d027ba6b326c79912ee9cad892$ */
